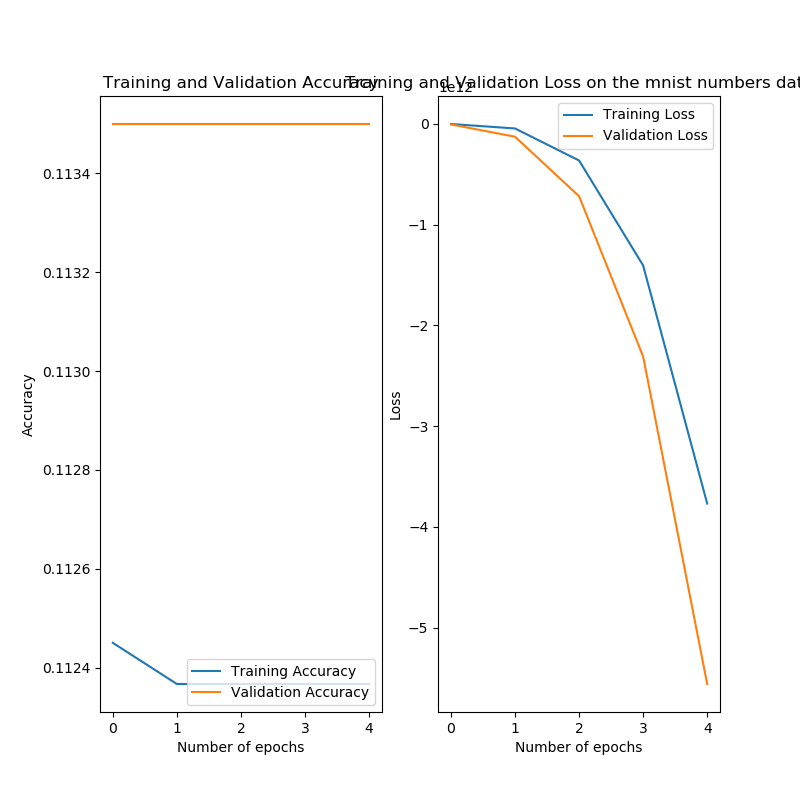
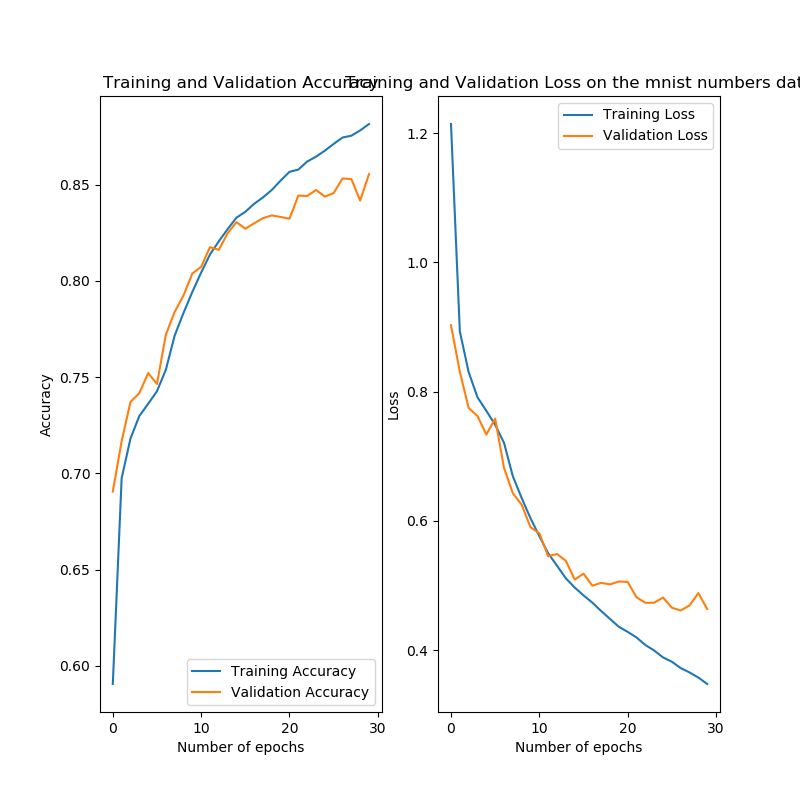
fixed bugs in mnist.py

diff --git a/project3/mnist.py b/project3/mnist.py
@@ -18,6 +18,8 @@ mnist = tf.keras.datasets.mnist     # Load dataset
 # Scale data (min-max scaling)
 x_train = (x_train - np.min(x_train))/(np.max(x_train) - np.min(x_train))
 x_test = (x_test - np.min(x_test))/(np.max(x_test) - np.min(x_test))
+#x_train = x_train/255
+#x_test = x_test/255
 
 # Print info about dataset
 print("\nINFO:")
@@ -50,8 +52,8 @@ x_test = x_test.reshape(x_test.shape[0], IMG_HEIGHT, IMG_WIDTH, 1)
 image_shape = (IMG_HEIGHT, IMG_WIDTH, 1)
 
 # Set variables before preprocessing
-batch_size = 64
-epochs = 5
+batch_size = 128
+epochs = 30
 
 start_time = time.time()    # For recording the time the NN takes
 print(f"Build NeuralNetwork model...")
@@ -65,11 +67,11 @@ model = tf.keras.Sequential([
     MaxPooling2D(),
     Flatten(),
     Dense(512, activation='relu'),
-    Dense(1, activation='sigmoid')
+    Dense(10, activation='sigmoid')
 ])
 # Compile model
 model.compile(optimizer='adam',
-              loss='binary_crossentropy',
+              loss = tf.keras.losses.SparseCategoricalCrossentropy(),
               metrics=['accuracy'])
 model.summary()     # print model summary
 
@@ -125,11 +127,9 @@ plt.plot(epochs_range, val_loss, label='Validation Loss')
 plt.legend(loc='upper right')
 plt.xlabel("Number of epochs")
 plt.ylabel("Loss")
-plt.title('Training and Validation Loss on the mnist numbers data')
+plt.title('Training and Validation Loss')
 save_fig("cnn_train_test_score", folder=folder, extension='pdf')
 save_fig("cnn_train_test_score", folder=folder, extension='png')
 plt.show()
-
-
 
 

diff --git a/project3/cats_and_dogs.py b/project3/cats_and_dogs.py
@@ -137,7 +137,7 @@ plt.plot(epochs_range, val_loss, label='Validation Loss')
 plt.legend(loc='upper right')
 plt.xlabel("Number of epochs")
 plt.ylabel("Loss")
-plt.title('Training and Validation Loss on the cats and dogs data')
+plt.title('Training and Validation Loss')
 save_fig("cnn_train_test_score", folder="cats_and_dogs", extension='pdf')
 save_fig("cnn_train_test_score", folder="cats_and_dogs", extension='png')
 plt.show()

diff --git a/project3/own_code.py b/project3/own_code.py
@@ -55,3 +55,5 @@ def plotImages(images_arr, folder= "", rgb=True, show=False):
         save_fig("sample_images", folder=folder, extension='png')
     if show == True:
         plt.show()
+    else:
+        plt.close()
